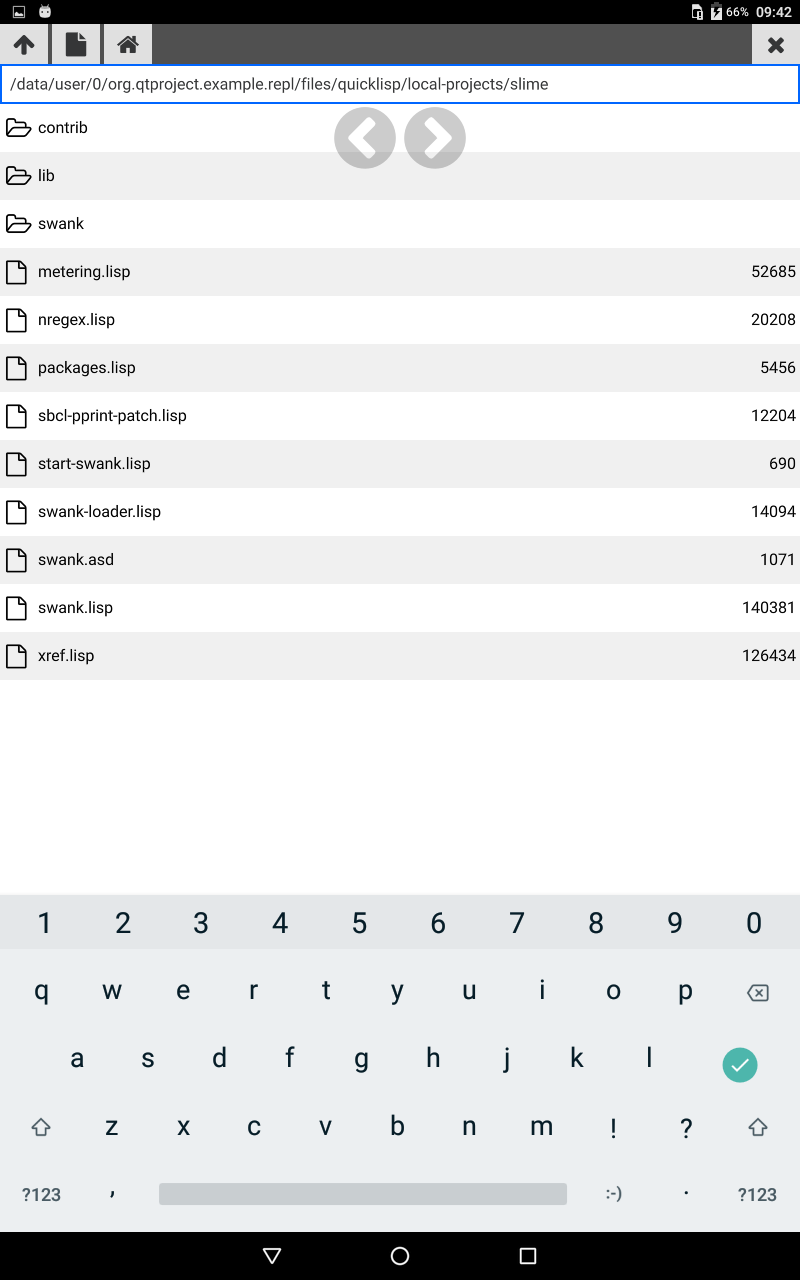
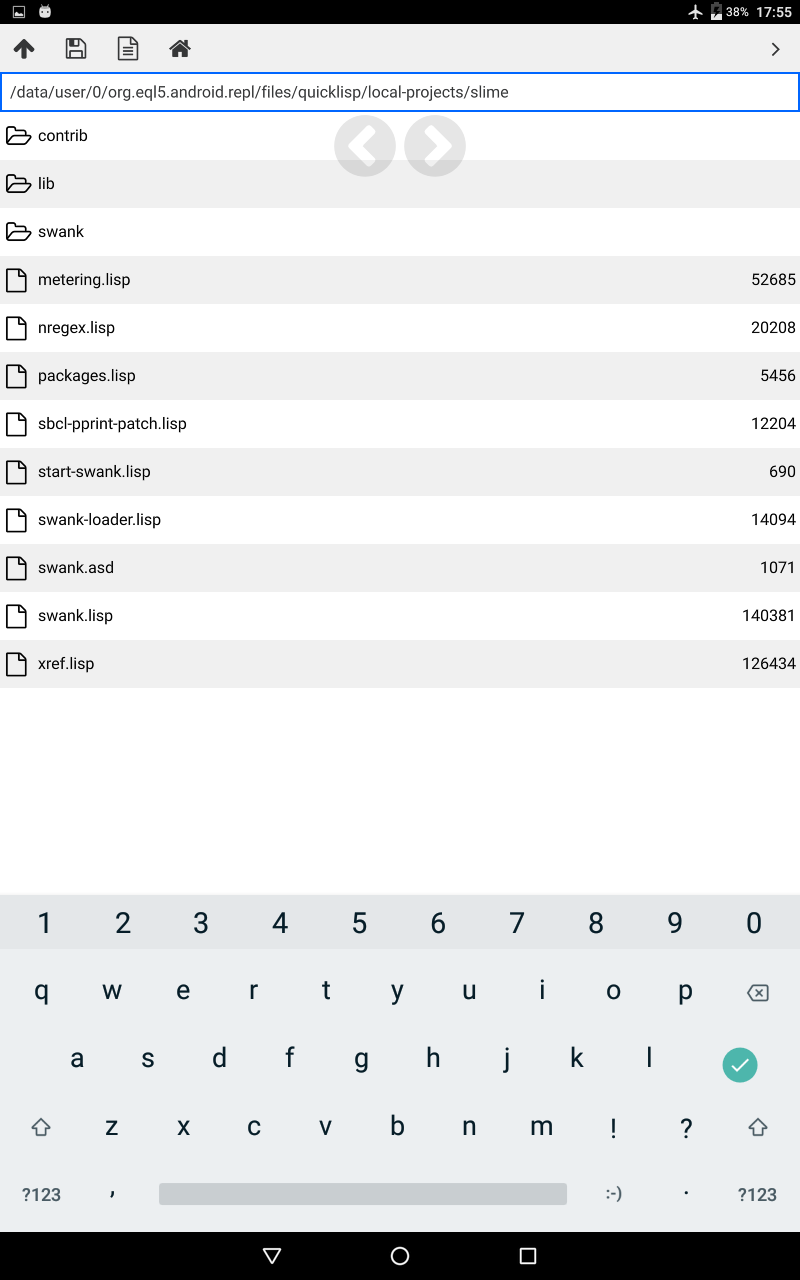
examples: update file dialogs (cleaner UI); update screenshots; review example 'my';

Changed region(s): [[0.0, 0.0, 1.0, 0.5312], [0.9375, 0.1875, 1.0, 0.4375], [0.9375, 0.4688, 1.0, 0.5312]]

diff --git a/examples/my/qml/ext/FileBrowser.qml b/examples/my/qml/ext/FileBrowser.qml
@@ -22,6 +22,7 @@ Rectangle {
         objectName: "folder_view"
         anchors.fill: parent
         delegate: Ext.FileDelegate {}
+        currentIndex: -1 // no initial highlight
         headerPositioning: ListView.OverlayHeader
         footerPositioning: ListView.OverlayHeader
 
@@ -40,7 +41,7 @@ Rectangle {
             width: fileBrowser.width
             height: headerColumn.height
             z: 2
-            color: "#505050"
+            color: "#f0f0f0"
 
             Component.onCompleted: fileBrowser.header = header // header, footer need this
 
@@ -51,7 +52,7 @@ Rectangle {
                     id: buttonRow
                     spacing: 4
 
-                    // folder up
+                    // one directory up
                     Ext.DialogButton {
                         text: "\uf062"
                         onClicked: Lisp.call("dialogs:set-file-browser-path", urlToString(folderModel.parentFolder))
@@ -89,10 +90,10 @@ Rectangle {
                 }
             }
 
-            // cancel
+            // back
             Ext.DialogButton {
                 x: header.width - width
-                text: "\uf00d"
+                text: "\uf105"
 
                 onClicked: {
                     fileBrowser.visible = false
@@ -109,6 +110,7 @@ Rectangle {
 
             // cursor back
             Ext.ArrowButton {
+                opacity: 0.1
                 text: "\uf137"
 
                 onPressed:      path.cursorPosition--
@@ -117,6 +119,7 @@ Rectangle {
 
             // cursor forward
             Ext.ArrowButton {
+                opacity: 0.1
                 text: "\uf138"
 
                 onPressed:      path.cursorPosition++

diff --git a/examples/sensors/qml/ext/FileBrowser.qml b/examples/sensors/qml/ext/FileBrowser.qml
@@ -22,6 +22,7 @@ Rectangle {
         objectName: "folder_view"
         anchors.fill: parent
         delegate: Ext.FileDelegate {}
+        currentIndex: -1 // no initial highlight
         headerPositioning: ListView.OverlayHeader
         footerPositioning: ListView.OverlayHeader
 
@@ -40,7 +41,7 @@ Rectangle {
             width: fileBrowser.width
             height: headerColumn.height
             z: 2
-            color: "#505050"
+            color: "#f0f0f0"
 
             Component.onCompleted: fileBrowser.header = header // header, footer need this
 
@@ -51,7 +52,7 @@ Rectangle {
                     id: buttonRow
                     spacing: 4
 
-                    // folder up
+                    // one directory up
                     Ext.DialogButton {
                         text: "\uf062"
                         onClicked: Lisp.call("dialogs:set-file-browser-path", urlToString(folderModel.parentFolder))
@@ -89,10 +90,10 @@ Rectangle {
                 }
             }
 
-            // cancel
+            // back
             Ext.DialogButton {
                 x: header.width - width
-                text: "\uf00d"
+                text: "\uf105"
 
                 onClicked: {
                     fileBrowser.visible = false
@@ -109,6 +110,7 @@ Rectangle {
 
             // cursor back
             Ext.ArrowButton {
+                opacity: 0.1
                 text: "\uf137"
 
                 onPressed:      path.cursorPosition--
@@ -117,6 +119,7 @@ Rectangle {
 
             // cursor forward
             Ext.ArrowButton {
+                opacity: 0.1
                 text: "\uf138"
 
                 onPressed:      path.cursorPosition++

diff --git a/examples/sokoban-repl/qml/ext/FileBrowser.qml b/examples/sokoban-repl/qml/ext/FileBrowser.qml
@@ -22,6 +22,7 @@ Rectangle {
         objectName: "folder_view"
         anchors.fill: parent
         delegate: Ext.FileDelegate {}
+        currentIndex: -1 // no initial highlight
         headerPositioning: ListView.OverlayHeader
         footerPositioning: ListView.OverlayHeader
 
@@ -40,7 +41,7 @@ Rectangle {
             width: fileBrowser.width
             height: headerColumn.height
             z: 2
-            color: "#505050"
+            color: "#f0f0f0"
 
             Component.onCompleted: fileBrowser.header = header // header, footer need this
 
@@ -51,7 +52,7 @@ Rectangle {
                     id: buttonRow
                     spacing: 4
 
-                    // folder up
+                    // one directory up
                     Ext.DialogButton {
                         text: "\uf062"
                         onClicked: Lisp.call("dialogs:set-file-browser-path", urlToString(folderModel.parentFolder))
@@ -89,10 +90,10 @@ Rectangle {
                 }
             }
 
-            // cancel
+            // back
             Ext.DialogButton {
                 x: header.width - width
-                text: "\uf00d"
+                text: "\uf105"
 
                 onClicked: {
                     fileBrowser.visible = false
@@ -109,6 +110,7 @@ Rectangle {
 
             // cursor back
             Ext.ArrowButton {
+                opacity: 0.1
                 text: "\uf137"
 
                 onPressed:      path.cursorPosition--
@@ -117,6 +119,7 @@ Rectangle {
 
             // cursor forward
             Ext.ArrowButton {
+                opacity: 0.1
                 text: "\uf138"
 
                 onPressed:      path.cursorPosition++

diff --git a/examples/my/qml/ext/FileDelegate.qml b/examples/my/qml/ext/FileDelegate.qml
@@ -2,10 +2,9 @@ import QtQuick 2.7
 import EQL5 1.0
 
 Rectangle {
-    id: delegate
     width: folderView.width
     height: 48
-    color: folderView.colors[index & 1]
+    color: (index == folderView.currentIndex) ? "lightblue" : folderView.colors[index & 1]
 
     Row {
         anchors.fill: parent
@@ -35,6 +34,11 @@ Rectangle {
         anchors.fill: parent
 
         onClicked: {
+            // highlight selected
+            folderView.currentIndex = index
+            Lisp.call("qsleep", 0.15)
+            folderView.currentIndex = -1
+
             if(fileIsDir) {
                 Lisp.call("dialogs:set-file-browser-path", filePath)
             }

diff --git a/examples/sensors/qml/ext/FileDelegate.qml b/examples/sensors/qml/ext/FileDelegate.qml
@@ -2,10 +2,9 @@ import QtQuick 2.7
 import EQL5 1.0
 
 Rectangle {
-    id: delegate
     width: folderView.width
     height: 48
-    color: folderView.colors[index & 1]
+    color: (index == folderView.currentIndex) ? "lightblue" : folderView.colors[index & 1]
 
     Row {
         anchors.fill: parent
@@ -35,6 +34,11 @@ Rectangle {
         anchors.fill: parent
 
         onClicked: {
+            // highlight selected
+            folderView.currentIndex = index
+            Lisp.call("qsleep", 0.15)
+            folderView.currentIndex = -1
+
             if(fileIsDir) {
                 Lisp.call("dialogs:set-file-browser-path", filePath)
             }

diff --git a/examples/sokoban-repl/qml/ext/FileDelegate.qml b/examples/sokoban-repl/qml/ext/FileDelegate.qml
@@ -2,10 +2,9 @@ import QtQuick 2.7
 import EQL5 1.0
 
 Rectangle {
-    id: delegate
     width: folderView.width
     height: 48
-    color: folderView.colors[index & 1]
+    color: (index == folderView.currentIndex) ? "lightblue" : folderView.colors[index & 1]
 
     Row {
         anchors.fill: parent
@@ -35,6 +34,11 @@ Rectangle {
         anchors.fill: parent
 
         onClicked: {
+            // highlight selected
+            folderView.currentIndex = index
+            Lisp.call("qsleep", 0.15)
+            folderView.currentIndex = -1
+
             if(fileIsDir) {
                 Lisp.call("dialogs:set-file-browser-path", filePath)
             }

diff --git a/examples/my/qml/ext/DialogButton.qml b/examples/my/qml/ext/DialogButton.qml
@@ -2,7 +2,9 @@ import QtQuick 2.7
 import QtQuick.Controls 2.0
 
 Button {
-    width: height
+    width: main.isPhone ? 42 : 48
+    height: width
     font.family: fontAwesome.name
     font.pixelSize: 24
+    flat: true
 }

diff --git a/examples/sensors/qml/ext/DialogButton.qml b/examples/sensors/qml/ext/DialogButton.qml
@@ -2,7 +2,9 @@ import QtQuick 2.7
 import QtQuick.Controls 2.0
 
 Button {
-    width: height
+    width: main.isPhone ? 42 : 48
+    height: width
     font.family: fontAwesome.name
     font.pixelSize: 24
+    flat: true
 }

diff --git a/examples/sokoban-repl/qml/ext/DialogButton.qml b/examples/sokoban-repl/qml/ext/DialogButton.qml
@@ -2,7 +2,9 @@ import QtQuick 2.7
 import QtQuick.Controls 2.0
 
 Button {
-    width: height
+    width: main.isPhone ? 42 : 48
+    height: width
     font.family: fontAwesome.name
     font.pixelSize: 24
+    flat: true
 }

diff --git a/examples/my/qml/my.qml b/examples/my/qml/my.qml
@@ -6,6 +6,8 @@ import QtQuick.Window 2.2
 import QtQuick.Layouts 1.3
 import QtMultimedia 5.7
 import QtSensors 5.7
+import QtPositioning 5.7
+import QtWebView 1.1
 import "ext/" as Ext
 import EQL5 1.0
 
